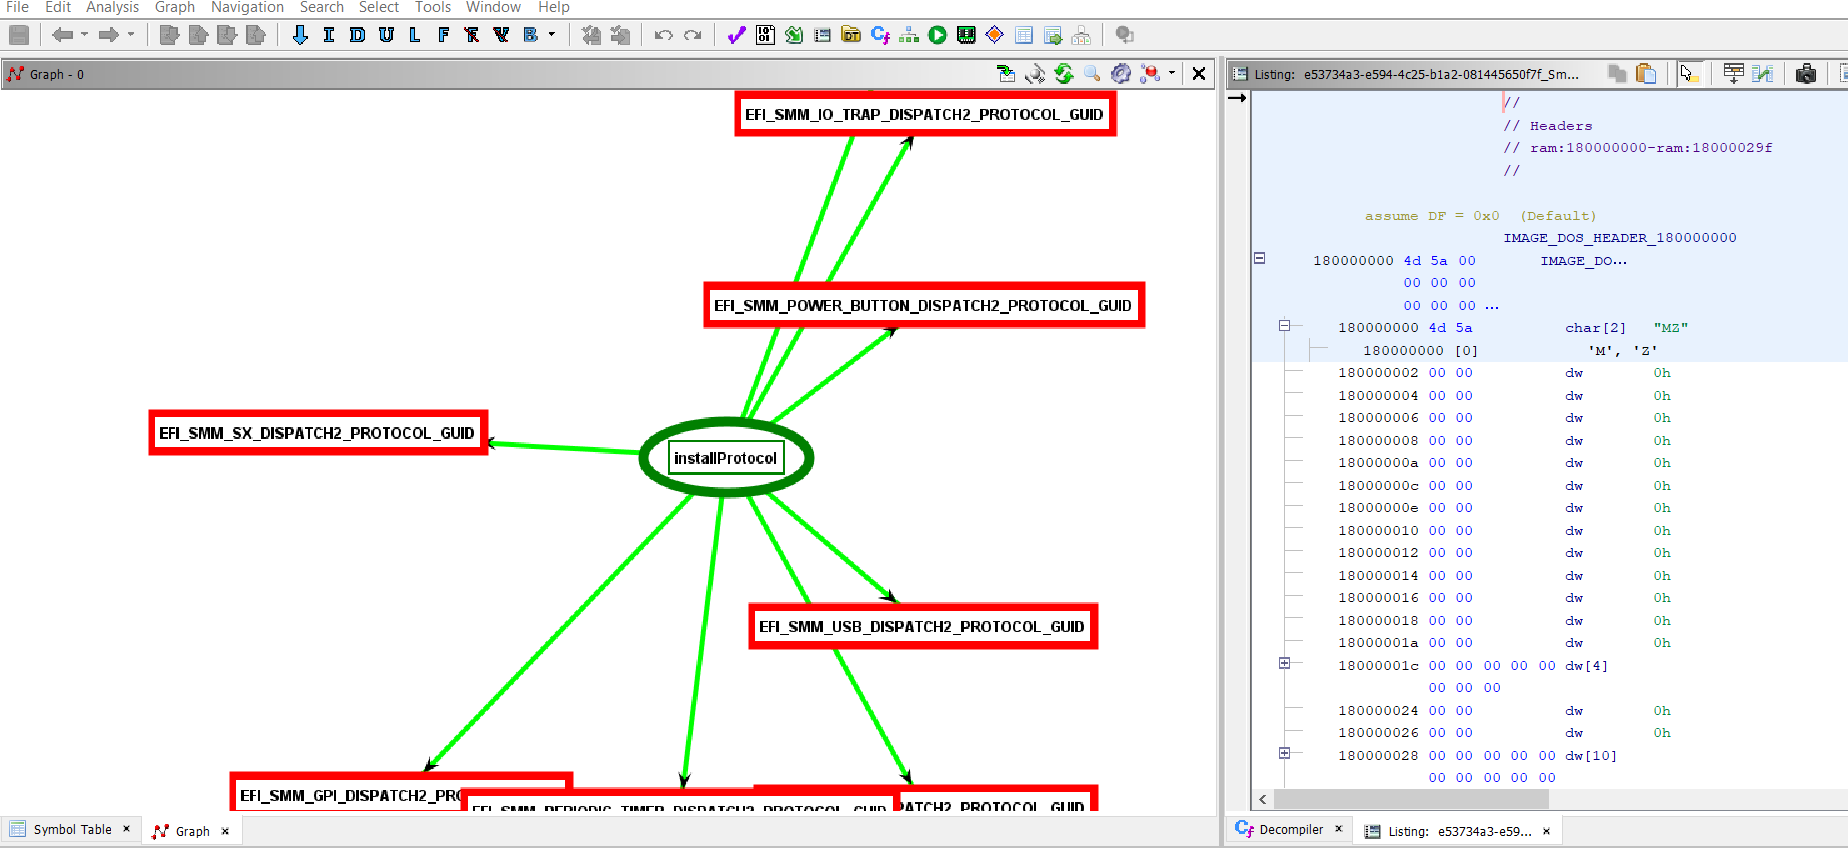
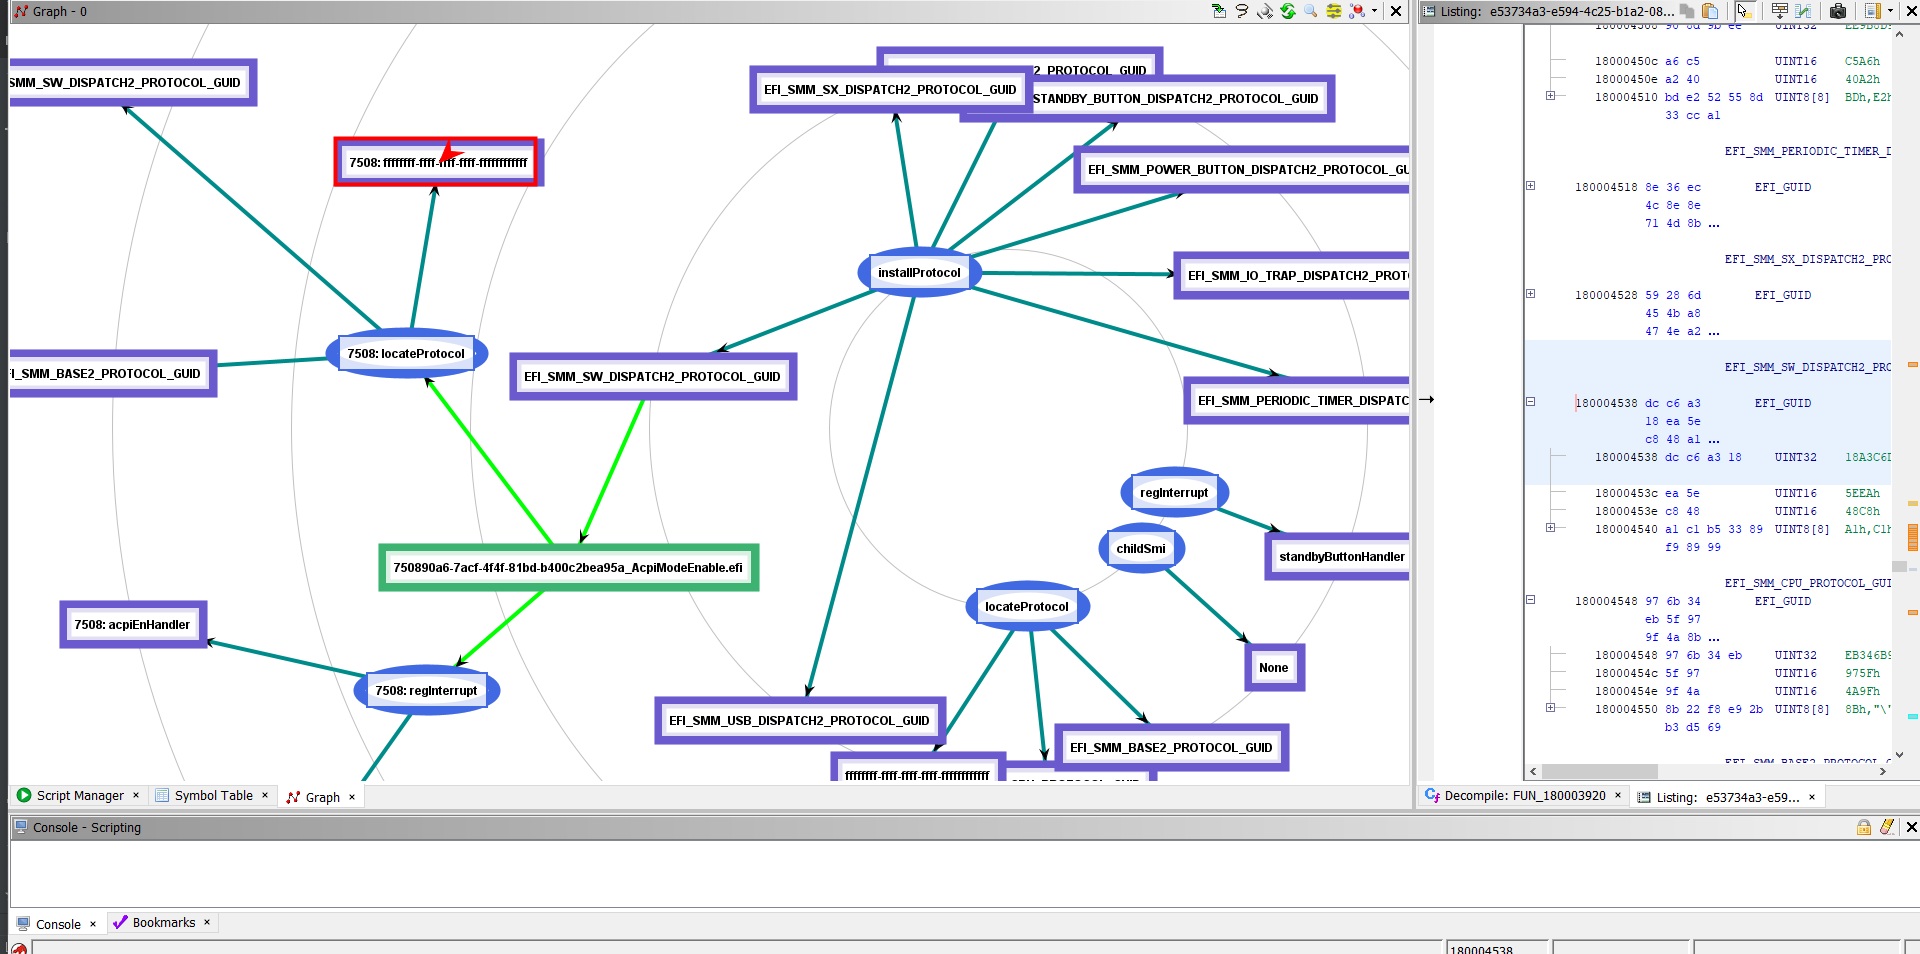
New colors

diff --git a/src/main/java/efigraph/EfiGraphProvider.java b/src/main/java/efigraph/EfiGraphProvider.java
@@ -136,8 +136,9 @@ public class EfiGraphProvider extends ComponentProvider {
             for (EfiEntry entry: e.getReferences())
             {
                 out = createProtocolVertex(suffix + entry.getKey(), suffix + entry.getName());
-                graph.addEdge(in, out);
+                graph.addEdge(in, out).setAttribute("Color", "DarkCyan");
             }
+
             vertices.add(in);
         }
         return vertices;
@@ -155,7 +156,7 @@ public class EfiGraphProvider extends ComponentProvider {
         AttributedVertex vn = new AttributedVertex(id, name);
             vn.setAttribute("Type", "Function");
             vn.setAttribute("Icon", "Circle");
-            vn.setAttribute("Color", "Green");
+            vn.setAttribute("Color", "RoyalBlue");
         graph.addVertex(vn);
         return vn;
     }
@@ -171,7 +172,7 @@ public class EfiGraphProvider extends ComponentProvider {
         AttributedVertex vn = new AttributedVertex(id, name);
         vn.setAttribute("Type", "Protocol");
         vn.setAttribute("Icon", "Square");
-        vn.setAttribute("Color", "Red");
+        vn.setAttribute("Color", "SlateBlue");
         graph.addVertex(vn);
         return vn;
     }
@@ -188,7 +189,7 @@ public class EfiGraphProvider extends ComponentProvider {
         AttributedVertex vn = new AttributedVertex(id, name);
         vn.setAttribute("Type", "File");
         vn.setAttribute("Icon", "Square");
-        vn.setAttribute("Color", "Blue");
+        vn.setAttribute("Color", "MediumSeaGreen");
         graph.addVertex(vn);
         return vn;
     }

diff --git a/src/main/java/efigraph/ProgramMetaData.java b/src/main/java/efigraph/ProgramMetaData.java
@@ -7,7 +7,10 @@ import ghidra.program.model.mem.MemoryBlock;
 import ghidra.util.Msg;
 
 import java.io.Serializable;
-import java.util.*;
+import java.util.ArrayList;
+import java.util.Arrays;
+import java.util.HashMap;
+import java.util.Map;
 
 import static efigraph.GuidDB.GUID_DEFAULT;
 
@@ -31,11 +34,10 @@ class ProgramMetaData implements Serializable
                                         "installProtocol",
                                         "childSmi"));
 
-
     /**
-     * This constructor save main data about current program and file
-     * and parses this data, creating a structure of functions and
-     * protocols that are interconnected with each other
+     * This constructor stores basic data about current program and file
+     * and analyzes this data to create a structure of functions and
+     * protocols that are related with each other
      * @param path the path of efi file in Ghidra project
      * @param name name of efi file. Must have extension .efi.
      * @param metaBlocks data from {@link MemoryBlock} of specified program

diff --git a/src/main/java/efigraph/GuidDB.java b/src/main/java/efigraph/GuidDB.java
@@ -1,6 +1,5 @@
 package efigraph;
 
-
 import ghidra.framework.Application;
 import ghidra.util.Msg;
 
